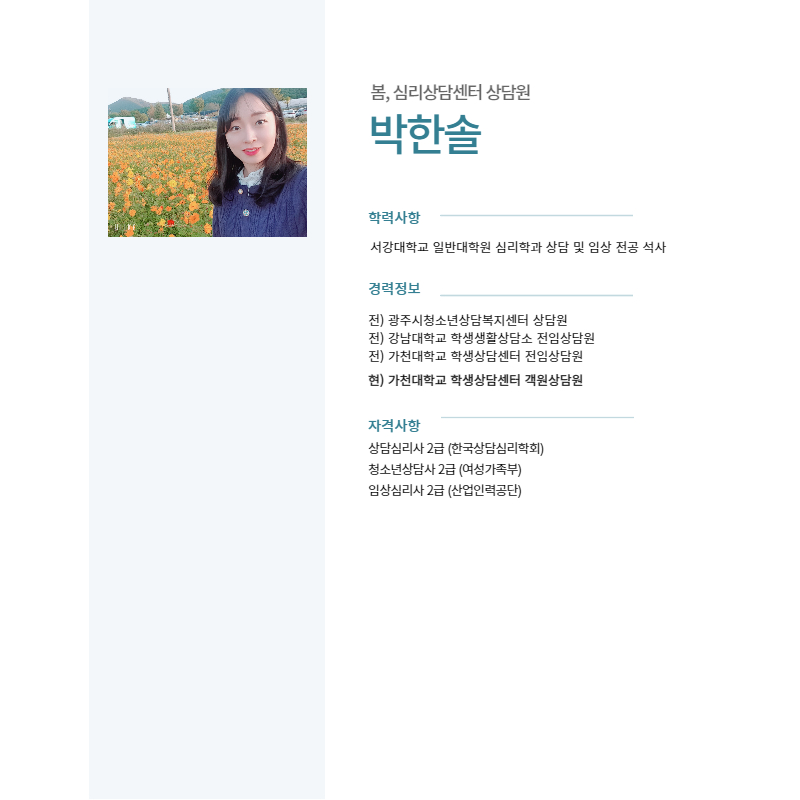
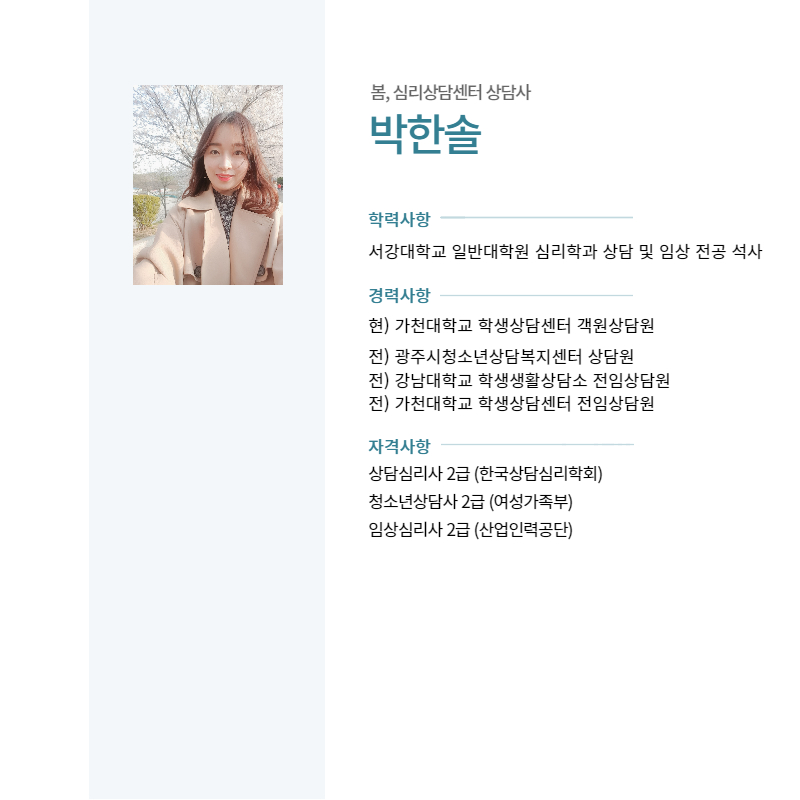
media query fixed

Changed region(s): [[0.4375, 0.25, 0.9062, 0.6875], [0.125, 0.0938, 0.4062, 0.375], [0.625, 0.0938, 0.6875, 0.125]]

diff --git a/components/GNB.tsx b/components/GNB.tsx
@@ -5,6 +5,7 @@ import { useRouter } from 'next/router';
 import { SetStateAction, useEffect, useState } from 'react';
 import useSWR from 'swr';
 import logo from '../public/logo-small.jpg';
+import logoLarge from '../public/logo-main.jpg';
 import {
   Dialog,
   DialogTitle,
@@ -74,16 +75,19 @@ const GNB: NextPage<{
       id="gnb"
       className="bg-black-400 border-#f5f5f5 fixed z-[2] flex h-28 w-[100%] flex-col border-b-2 bg-white sm:h-[4.6rem]"
     >
-      <div className="mx-auto flex">
+      <div className="mx-auto flex sm:w-full sm:justify-between md:w-full md:justify-between lg:w-full">
         <div className="flex">
           <Link href="/home">
             <a>
               <div
                 id="logo"
-                className="flex h-[112px] min-w-[350px] cursor-pointer overflow-y-hidden sm:h-[75px] sm:w-[130px] sm:min-w-[230px]"
+                className="flex h-[112px] min-w-[350px] cursor-pointer overflow-y-hidden sm:h-[75px] sm:w-[130px] sm:min-w-[230px] lg:h-[112px] lg:w-[225px] lg:min-w-[225px]"
               >
-                <div>
-                  <Image src={logo} width={350} height={112} />
+                <div className="lg:hidden lg:h-[110px]">
+                  <Image src={logo} width={350} height={112} className="lg:h-[110px]" />
+                </div>
+                <div className="hidden lg:flex lg:h-[112px]">
+                  <Image src={logo} width={225} height={112} className="lg:h-[112px]" />
                 </div>
               </div>
             </a>
@@ -105,9 +109,9 @@ const GNB: NextPage<{
               </div>
             )}
           </div>
-          <div id="menu" className="flex sm:hidden">
-            <div className="mx-2 flex h-[5.3rem] w-52 cursor-pointer items-center justify-center font-medium  ">
-              <div className="dropdown relative mx-2 inline-block h-[5.3rem] w-40">
+          <div id="menu" className="flex sm:hidden md:hidden">
+            <div className="mx-2 flex h-[5.3rem] w-52 cursor-pointer items-center justify-center font-medium lg:w-28">
+              <div className="dropdown relative mx-2 inline-block h-[5.3rem] w-40 lg:w-28">
                 <div>
                   <div className="py-[2rem] text-center">
                     <Link href="/introduce">
@@ -142,10 +146,10 @@ const GNB: NextPage<{
                 </div>
               </div>
             </div>
-            <div className="mx-2 flex h-[5.3rem] w-52 cursor-pointer items-center justify-center font-medium ">
-              <div className="dropdown relative mx-2 inline-block h-[5.3rem] w-48">
+            <div className="mx-2 flex h-[5.3rem] w-52 cursor-pointer items-center justify-center font-medium lg:w-32">
+              <div className="dropdown relative mx-2 inline-block h-[5.3rem] w-48 lg:w-32">
                 <div>
-                  <div className="py-[2rem] text-center">
+                  <div className="py-[2rem] text-center lg:py-[1.2rem]">
                     <Link href="/counsel/private">
                       <a>
                         <span className="font-bold">상담 및 심리검사 서비스</span>
@@ -185,8 +189,8 @@ const GNB: NextPage<{
                 </div>
               </div>
             </div>
-            <div className="mx-2 flex h-[5.3rem] w-52 cursor-pointer items-center justify-center font-medium ">
-              <div className="dropdown relative mx-2 inline-block h-[5.3rem] w-40">
+            <div className="mx-2 flex h-[5.3rem] w-52 cursor-pointer items-center justify-center font-medium lg:w-28">
+              <div className="dropdown relative mx-2 inline-block h-[5.3rem] w-40 lg:w-28">
                 <div>
                   <div className="py-[2rem] text-center">
                     <Link href="/education/counselor">
@@ -214,8 +218,8 @@ const GNB: NextPage<{
                 </div>
               </div>
             </div>
-            <div className="mx-2 flex h-[5.3rem] w-52 cursor-pointer items-center justify-center font-medium ">
-              <div className="dropdown relative mx-2 inline-block h-[5.3rem] w-40">
+            <div className="mx-2 flex h-[5.3rem] w-52 cursor-pointer items-center justify-center font-medium lg:w-32">
+              <div className="dropdown relative mx-2 inline-block h-[5.3rem] w-40 lg:w-32">
                 <div>
                   <div className="py-[2rem] text-center">
                     <Link href="/proposal">
@@ -243,8 +247,8 @@ const GNB: NextPage<{
                 </div>
               </div>
             </div>
-            <div className="mx-2 flex h-[5.3rem] w-52 cursor-pointer items-center justify-center font-medium ">
-              <div className="dropdown relative mx-2 inline-block h-[5.3rem] w-40">
+            <div className="mx-2 flex h-[5.3rem] w-52 cursor-pointer items-center justify-center font-medium lg:w-24">
+              <div className="dropdown relative mx-2 inline-block h-[5.3rem] w-40 lg:w-24">
                 <div>
                   <div className="py-[2rem] text-center">
                     <Link href="/news/notice">
@@ -273,8 +277,8 @@ const GNB: NextPage<{
               </div>
             </div>
             {isLogin ? (
-              <div className="mx-2 flex h-[5.3rem] w-52 cursor-pointer items-center justify-center font-medium ">
-                <div className="dropdown relative mx-2 inline-block h-[5.3rem] w-40">
+              <div className="mx-2 flex h-[5.3rem] w-52 cursor-pointer items-center justify-center font-medium lg:w-32">
+                <div className="dropdown relative mx-2 inline-block h-[5.3rem] w-40 lg:w-32">
                   <div>
                     <div className="py-[2rem] text-center">
                       <Link href="/proposal/list">

diff --git a/pages/home.tsx b/pages/home.tsx
@@ -71,7 +71,7 @@ const Home: NextPage = () => {
           상담신청 및 문의
         </div>
         <div className="mb-16 flex w-full flex-row justify-center">
-          <div className="h-[360px] w-[360px] rounded-3xl border-[1px] p-4 shadow-lg sm:ml-0 sm:mr-8 sm:max-w-[210px]">
+          <div className="h-[360px] w-[360px] rounded-3xl border-[1px] p-4 shadow-lg sm:ml-0 sm:mr-8 sm:max-w-[210px] md:mr-8 md:max-w-[300px] lg:mr-12">
             <div className="flex justify-between">
               <div className="mb-4 border-b-4 pb-4 text-2xl font-bold sm:text-lg">상담 문의</div>
               <div
@@ -86,13 +86,13 @@ const Home: NextPage = () => {
               <div className="mt-4 text-xl sm:text-lg">상담은 사전 예약제로 진행 됩니다.</div>
               <div className="mt-[1.5rem] px-2 sm:mt-4">
                 <div className="text-2xl font-bold sm:text-xl">업무시간</div>
-                <div className="mt-4 sm:text-sm">평일: 오전 10:00 – 오후 21:00</div>
-                <div className="mt-2 sm:text-xs">주말: 상담자와 사전 협의 후 진행</div>
-                <div className="mt-2 sm:text-sm">(토요일 ~ 일요일)</div>
+                <div className="mt-4 sm:text-sm md:text-sm">평일: 오전 10:00 – 오후 21:00</div>
+                <div className="mt-2 sm:text-xs md:text-sm">주말: 상담자와 사전 협의 후 진행</div>
+                <div className="mt-2 sm:text-sm md:text-sm">(토요일 ~ 일요일)</div>
               </div>
             </div>
           </div>
-          <div className="h-[360px] w-[360px] rounded-3xl border-[1px] p-4 shadow-lg sm:ml-0 sm:w-[150px]">
+          <div className="h-[360px] w-[360px] rounded-3xl border-[1px] p-4 shadow-lg sm:ml-0 sm:w-[150px] md:max-w-[250px]">
             <div className="flex justify-between">
               <div className="mb-4 border-b-4 pb-4 text-2xl font-bold sm:text-lg">상담 신청</div>
               <div
@@ -145,7 +145,7 @@ const Home: NextPage = () => {
           센터 소개
         </div>
 
-        <div className="col mr-auto flex h-[630px] w-[100%] border-y-[1px] p-4 shadow-lg sm:h-[300px]">
+        <div className="col mr-auto flex h-[630px] w-[100%] border-y-[1px] p-4 shadow-lg sm:h-[300px] md:max-h-[500px] md:min-h-[450px]">
           <div className="flex flex-col">
             <div className="mb-4 flex w-[6.6rem] border-b-4 pb-4 text-2xl font-bold">센터 사진</div>
             <div className="flex flex-row pt-8">

diff --git a/components/Menu.tsx b/components/Menu.tsx
@@ -33,7 +33,7 @@ const Menu: NextPage<{ menu: string }> = ({ menu }) => {
 
   return (
     <div className="flex">
-      <div className="mt-14 flex w-[350px] min-w-[350px] flex-col px-8 sm:min-w-[120px]">
+      <div className="mt-14 flex w-[350px] min-w-[350px] flex-col px-8 sm:hidden md:hidden">
         <div className="h-28 border-[1px] p-[24px]">
           <h4 className="text-xl font-bold">{data?.title}</h4>
         </div>
@@ -41,6 +41,20 @@ const Menu: NextPage<{ menu: string }> = ({ menu }) => {
           {data?.value?.map((arr) => (
             <Link key={arr?.key} href={`/${menu}${arr.value}`}>
               <li className="block h-[60px] items-center justify-center border-[1px] py-[12px] px-[24px] hover:cursor-pointer hover:bg-[#a9ce8e] hover:text-white">
+                <a>{arr.name}</a>
+              </li>
+            </Link>
+          ))}
+        </ul>
+      </div>
+      <div className="mt-8 hidden w-full flex-col px-8 sm:mt-12 sm:flex md:flex">
+        <div className="h-12">
+          <h4 className="text-xl font-bold">{data?.title}</h4>
+        </div>
+        <ul className="flex max-h-[300px] w-[100%] flex-row text-gray-800">
+          {data?.value?.map((arr) => (
+            <Link key={arr?.key} href={`/${menu}${arr.value}`}>
+              <li className="block h-[60px] items-center justify-center border-[1px] py-[12px] px-[36px] hover:cursor-pointer hover:bg-[#a9ce8e] hover:text-white sm:px-[18px]">
                 <a>{arr.name}</a>
               </li>
             </Link>

diff --git a/components/Layout.tsx b/components/Layout.tsx
@@ -1,4 +1,5 @@
 import { NextPage } from 'next';
+import { useRouter } from 'next/router';
 import React from 'react';
 import { cls } from 'utils/common';
 
@@ -6,14 +7,35 @@ const Layout: NextPage<{ children: React.ReactNode; isBanner: boolean }> = ({
   children,
   isBanner,
 }) => {
+  const router = useRouter();
+
+  const isIntroduce = () => {
+    return router.pathname === '/introduce';
+  };
+
+  const isLogin = () => {
+    return router.pathname === '/login';
+  };
+
+  const getClass = () => {
+    if (!isBanner && isIntroduce())
+      return 'mx-auto h-auto w-full sm:w-full max-w-[100rem] pt-[112px] sm:pt-[40px]';
+    else if (!isBanner && !isIntroduce())
+      return 'mx-auto h-auto w-full sm:w-full max-w-7xl pt-[112px] sm:pt-[40px]';
+    else if (isBanner && !isIntroduce()) return 'mx-auto h-auto w-full sm:w-full max-w-7xl';
+    else return 'mx-auto h-auto w-full sm:w-full max-w-7xl pt-[112px] sm:pt-[40px]';
+  };
+
   return (
-    <div
-      className={cls(
-        'bg-yello-500 mx-auto h-auto w-full max-w-7xl sm:w-full',
-        isBanner ? '' : ' pt-[112px] sm:pt-[40px]'
-      )}
-    >
-      <div className="flex min-h-[795px] flex-row sm:w-full sm:flex-col">{children}</div>
+    <div className={getClass()}>
+      <div
+        className={cls(
+          'flex min-h-[795px] flex-row sm:w-full sm:flex-col md:flex-col',
+          isLogin() ? 'items-center justify-center' : ''
+        )}
+      >
+        {children}
+      </div>
     </div>
   );
 };

diff --git a/pages/_app.tsx b/pages/_app.tsx
@@ -64,15 +64,15 @@ function MyApp({ Component, pageProps }: AppProps) {
         <GNB loginState={loginState} setLoginState={setLoginState} />
         {isHome() && !isLogin() ? <Section /> : null}
         {isCounsel() ? (
-          <div className="sm:pt-[74px]">
+          <div className="sm:pt-[74px] md:pt-[112px] lg:pt-[112px]">
             <Image src={fixed5} />
           </div>
         ) : isEducation() ? (
-          <div className="sm:pt-[74px]">
+          <div className="sm:pt-[74px] md:pt-[112px] lg:pt-[112px]">
             <Image src={fixed4} />
           </div>
         ) : isProposal() ? (
-          <div className="sm:pt-[74px]">
+          <div className="sm:pt-[74px] md:pt-[112px] lg:pt-[112px]">
             <Image src={fixed3} />
           </div>
         ) : null}

diff --git a/components/ContextMenu.tsx b/components/ContextMenu.tsx
@@ -64,13 +64,13 @@ const ContextMenu: NextPage = () => {
 
   return (
     <>
-      <div className="mt-4 hidden items-center justify-center sm:flex">
+      <div className="mt-4 hidden items-center justify-center sm:flex md:flex md:h-full">
         <IconButton
           onClick={handleContextMenu}
-          className="h-[30px] w-[30px] text-black"
+          className="h-[30px] w-[30px] text-black md:h-[50px] md:w-[50px]"
           color="primary"
         >
-          <MenuOutlined className="text-black" />
+          <MenuOutlined className="text-black md:h-[36px] md:w-[36px]" />
         </IconButton>
       </div>
       <Menu anchorEl={anchorEl} open={open} onClose={handleClose}>

diff --git a/pages/introduce/member.tsx b/pages/introduce/member.tsx
@@ -1,8 +1,9 @@
 import Layout from '@components/Layout';
 import { NextPage } from 'next';
 import Image from 'next/image';
-import member1 from '../../assets/member1.png';
+import member1 from '../../assets/member1.jpg';
 import member3 from '../../assets/member3.jpg';
+import member4 from '../../assets/member4.jpg';
 import member2 from '../../assets/member2.jpg';
 
 const Member: NextPage = () => {
@@ -10,6 +11,7 @@ const Member: NextPage = () => {
     <div className="overflow-y-auto sm:w-full">
       <Image src={member1} />
       <Image src={member3} />
+      <Image src={member4} />
       <Image src={member2} />
     </div>
   );

diff --git a/styles/globals.css b/styles/globals.css
@@ -31,7 +31,7 @@ body {
 
 :root {
   --swiper-navigation-size : 22px !important;
-  --swiper-theme-color: #000000 !important;
+  --swiper-theme-color: #eeeeee !important;
 }
 .swiper-button-next:after,
 .swiper-button-prev:after{
@@ -42,7 +42,7 @@ body {
   display: none !important;
   padding: 20px;
   border-radius: 25px;
-  border: 1px solid #000000;
+  border: 0px solid #000000;
 }
   
 .swiper {
@@ -120,9 +120,13 @@ body {
   }
 }
 
+.tox-sidebar-wrap{
+  height: 500px !important;
+}
+
 .swiper-slide .subtitle {
   font-size: 21px;
-  margin-top: 15px;
+  margin-top: 22px;
 }
 
 .swiper-slide .text {

diff --git a/components/Footer.tsx b/components/Footer.tsx
@@ -21,7 +21,7 @@ const Footer: NextPage = () => {
         </div>
       </div>
       <div id="copyright" className="ml-4 flex flex-col p-4">
-        <ul className="flex last:mr-0 sm:hidden [&>a>li]:mr-3 [&>a>li]:border-r-[2px] [&>a>li]:border-[#e1e1e1] [&>a>li]:pr-3 [&>a>li:hover]:cursor-pointer [&>a>li:hover]:underline">
+        <ul className="flex last:mr-0 sm:hidden md:hidden [&>a>li]:mr-3 [&>a>li]:border-r-[2px] [&>a>li]:border-[#e1e1e1] [&>a>li]:pr-3 [&>a>li:hover]:cursor-pointer [&>a>li:hover]:underline">
           <Link href="/introduce">
             <a>
               <li>센터 소개</li>

diff --git a/tailwind.config.js b/tailwind.config.js
@@ -4,10 +4,10 @@ module.exports = {
   theme: {
     extend: {},
     screens: {
-      sm: { min: '200px', max: '599px' },
-      md: { min: '768px', max: '899px' },
-      lg: { min: '992px', max: '1199px' },
-      xl: { min: '1200px', max: '1799px' },
+      sm: { min: '200px', max: '599px' }, // 모바일
+      md: { min: '600px', max: '1023px' }, // 태블릿 세로
+      lg: { min: '1024px', max: '1200px' }, // 태블릿 가로
+      xl: { min: '1200px' }, // pc
     },
   },
   darkMode: 'media', // media:브라우저 설정 class:우리가 state로 설정 부모 하위에 요소 위치로

diff --git a/components/Content.tsx b/components/Content.tsx
@@ -2,7 +2,15 @@ import Layout from '@components/Layout';
 import { NextPage } from 'next';
 
 const Content: NextPage<{ children: React.ReactNode }> = ({ children }) => {
-  return <div className={'w-fullborder-[1px] mx-[30px] my-14 sm:mx-0 sm:w-full'}>{children}</div>;
+  return (
+    <div
+      className={
+        'mx-[30px] my-14 w-full border-[1px] sm:mx-0 sm:w-full md:mx-0 md:w-full lg:w-full'
+      }
+    >
+      {children}
+    </div>
+  );
 };
 
 export default Content;

diff --git a/components/Section.tsx b/components/Section.tsx
@@ -64,7 +64,7 @@ const Section: NextPage = () => {
             <div className="subtitle" data-swiper-parallax="-200">
               <p>새롭게 보다.</p>
             </div>
-            <div className="text" data-swiper-parallax="-100">
+            <div className="subtitle" data-swiper-parallax="-100">
               <p>
                 봄, 은 이름에서 상담에서 다루어야 하는 과정이 그대로 표현되는 따뜻한 공간입니다.
               </p>
